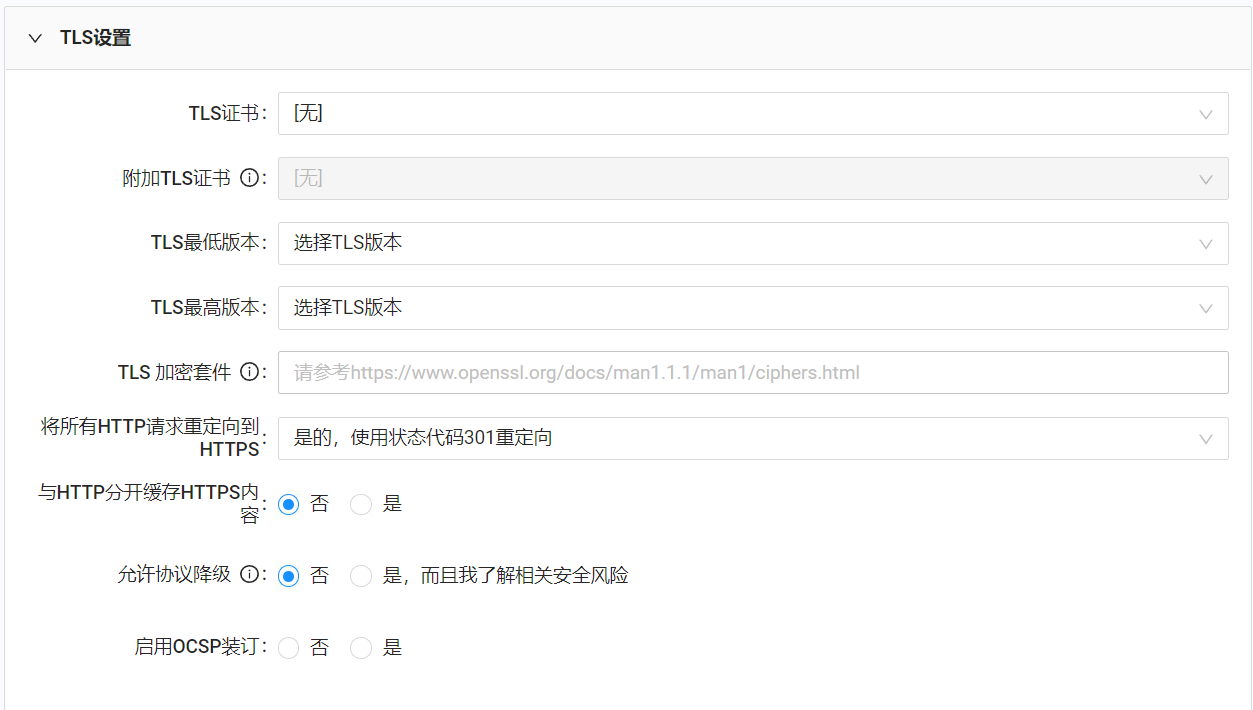
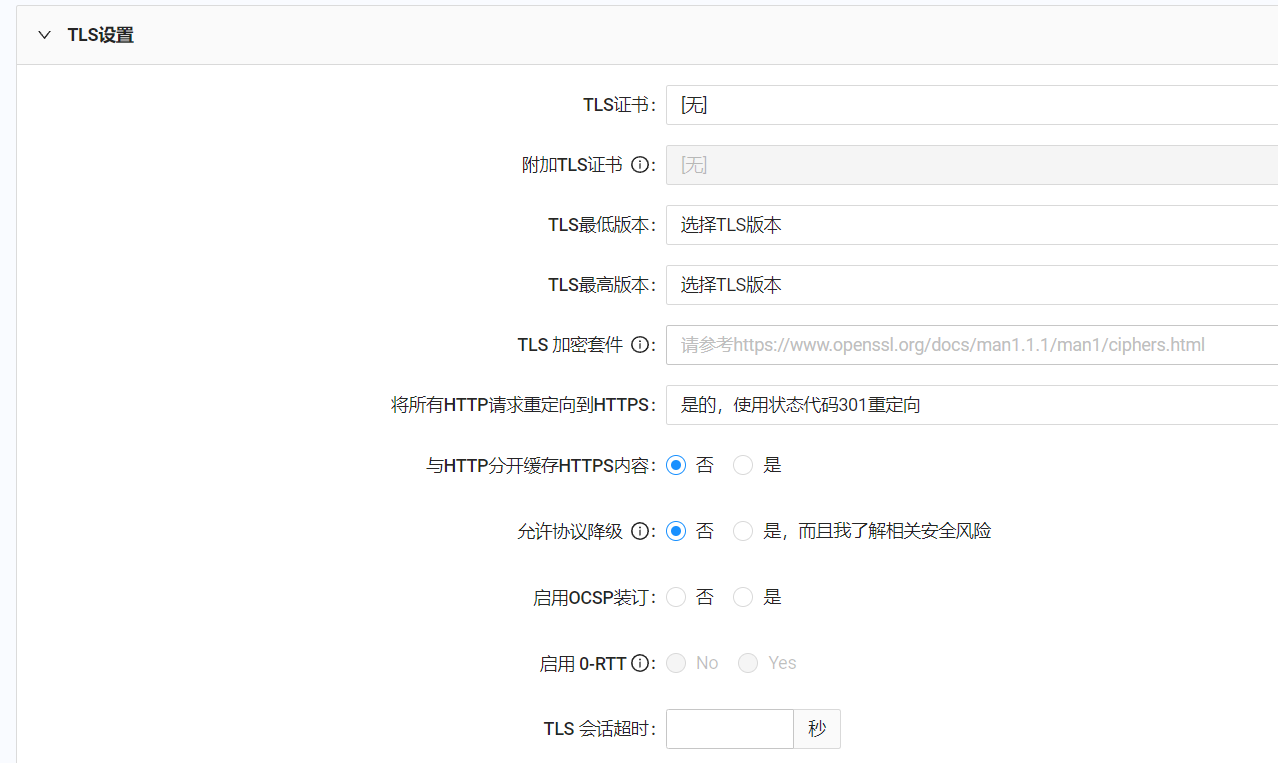
NGDOC-189

diff --git a/en/docs/portal/edge-configurations/creating-property.md b/en/docs/portal/edge-configurations/creating-property.md
@@ -52,7 +52,8 @@ After making your selection, complete the settings in the Edge Logic Wizard page
 
 ## TLS Settings
 
-This section allows you to enable HTTPS for this property by attaching a TLS certificate to it. If both RSA and ECC algorithms need to be supported, add a second certificate with an algorithm different from the first certificate. This section includes an option to downgrade the protocol from HTTPS to HTTP when accessing the origin, although doing so may expose you to security risks. This section also allows you to enable Online Certificate Status Protocol (OCSP) stapling to check the revocation status of digital certificates (refer to https://en.wikipedia.org/wiki/OCSP_stapling). The remaining settings are intuitive. Specify the TLS ciphers in the format described in the [OpenSSL documentation](https://www.openssl.org/docs/man1.1.1/man1/ciphers.html#CIPHER-LIST-FORMAT).
+This section allows you to:<ul><li>Enable HTTPS for this property by attaching a TLS certificate to it. If both RSA and ECC algorithms need to be supported, add a second certificate with an algorithm different from the first certificate.</ul></li><ul><li>Downgrade the protocol from HTTPS to HTTP when accessing the origin. Note that doing so may expose you to security risks.</ul></li><ul><li>Enable Online Certificate Status Protocol (OCSP) stapling to check the revocation status of digital certificates (refer to https://en.wikipedia.org/wiki/OCSP_stapling).</ul></li><ul><li>Enable zero round-trip time resumption for TLS 1.3. Select <B>Enable 0-RTT</b> only if tlsMinVersion or tlsMaxVersion includes TLS 1.3.</ul></li><ul><li>Specify the maximum number of seconds to wait for a secure TLS handshake to be initiated and to complete before the TLS session times out.</ul></li>
+The remaining settings are intuitive. Specify the TLS ciphers in the format described in the [OpenSSL documentation](https://www.openssl.org/docs/man1.1.1/man1/ciphers.html#CIPHER-LIST-FORMAT).
 
 **Note:** If you enter multiple cipher suites in the **TLS Ciphers** field, separate them with colons.
 

diff --git a/zh/docs/portal/edge-configurations/creating-property.md b/zh/docs/portal/edge-configurations/creating-property.md
@@ -52,7 +52,8 @@ After making your selection, complete the settings in the Edge Logic Wizard page
 
 ## TLS Settings
 
-This section allows you to enable HTTPS for this property by attaching a TLS certificate to it. If both RSA and ECC algorithms need to be supported, add a second certificate with an algorithm different from the first certificate. This section includes an option to downgrade the protocol from HTTPS to HTTP when accessing the origin, although doing so may expose you to security risks. This section also allows you to enable Online Certificate Status Protocol (OCSP) stapling to check the revocation status of digital certificates (refer to https://en.wikipedia.org/wiki/OCSP_stapling). The remaining settings are intuitive. Specify the TLS ciphers in the format described in the [OpenSSL documentation](https://www.openssl.org/docs/man1.1.1/man1/ciphers.html#CIPHER-LIST-FORMAT).
+This section allows you to:<ul><li>Enable HTTPS for this property by attaching a TLS certificate to it. If both RSA and ECC algorithms need to be supported, add a second certificate with an algorithm different from the first certificate.</ul></li><ul><li>Downgrade the protocol from HTTPS to HTTP when accessing the origin. Note that doing so may expose you to security risks.</ul></li><ul><li>Enable Online Certificate Status Protocol (OCSP) stapling to check the revocation status of digital certificates (refer to https://en.wikipedia.org/wiki/OCSP_stapling).</ul></li><ul><li>Enable zero round-trip time resumption for TLS 1.3. Select <B>Enable 0-RTT</b> only if tlsMinVersion or tlsMaxVersion includes TLS 1.3.</ul></li><ul><li>Specify the maximum number of seconds to wait for a secure TLS handshake to be initiated and to complete before the TLS session times out.</ul></li>
+The remaining settings are intuitive. Specify the TLS ciphers in the format described in the [OpenSSL documentation](https://www.openssl.org/docs/man1.1.1/man1/ciphers.html#CIPHER-LIST-FORMAT).
 
 **Note:** If you enter multiple cipher suites in the **TLS Ciphers** field, separate them with colons.
 
